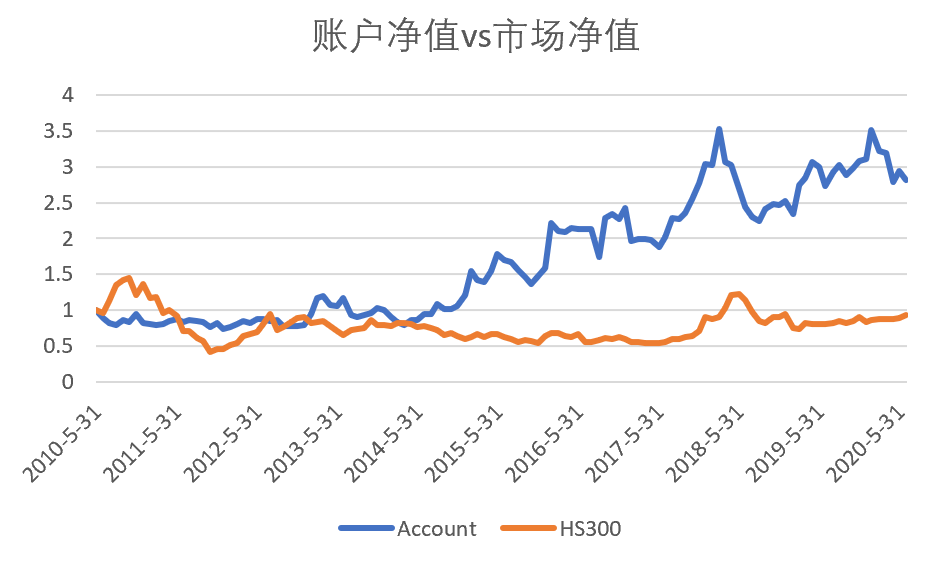
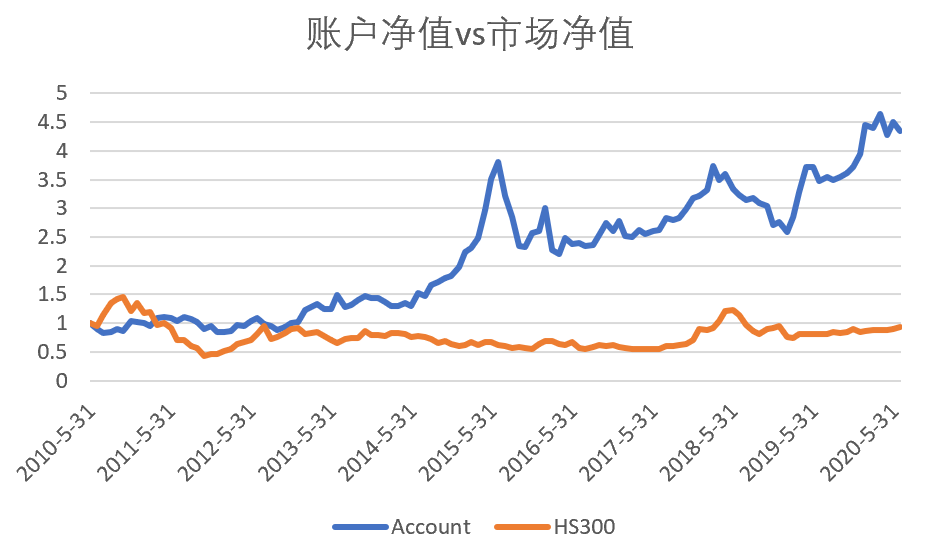
Updated README.md

diff --git a/README.md b/README.md
@@ -1,3 +1,118 @@
-# 基于RMW盈利因子的市场中性策略（逸昕）
-本项目采用基于RMW盈利因子的单因子A股选股策略，使用沪深300股指期货对股票仓位的市场风险进行β对冲，组合为单因子市场中性策略。在参数回归上，项目原采用基于TensorFlow的机器学习方法，通过反馈神经网络完成因子β与投资组合β的拟合，由于回测阶段运算量巨大、耗时较长，改采用简单OLS方法进行回归，但仍保留原机器学习方法接口。
-![账户净值](/Pic/NetValuePerformance.png)
+# 基于RMW盈利因子的市场中性策略
+####作者：逸昕
+本项目采用基于RMW盈利因子的单因子A股选股策略，使用沪深300股指期货对股票仓位的市场风险进行β对冲，每月再平衡，组合为单因子市场中性策略。
+在参数回归上，项目原采用基于TensorFlow的机器学习方法，通过反馈神经网络完成因子β与投资组合β的拟合，由于回测阶段运算量巨大、耗时较长，改采用简单OLS方法进行回归，但仍保留原机器学习方法接口。
+##回测概况
+    策略名称：基于RMW盈利因子的市场中性策略
+    开始日期：2010年4月30日
+    结束日期：2020年6月30日
+    回测周期：122个月
+    频率限制：最小持仓周期为365个自然日
+    股票池：沪深300成分股(2005年1月至2020年6月始终为成分股的120只个股)
+    股指期货：IF（每月再平衡）
+    最大持仓：10
+    初始资本：1000万
+    持有期收益：335.28%
+    年化收益：33.25%
+    夏普比率：0.67
+    最大回撤：0.82
+![账户净值](./Pic/NetValuePerformance.png)  
+注1：由于本人没有万德账号，无法获取沪深300成分股动态数据，在数据选取方面，本项目使用2020年6月30日沪深300成分股作为标的，剔除其中在2005年1月时
+未被纳入成分股的个股，剩余股票池共有120只股票。  
+注2：沪深300股指期货可追溯历史数据始于2010年4月，故策略回测起始期同为2010年4月。
+##因子构建
+本人借鉴Fama French五因子模型的思想，构筑了RMW盈利因子。令2007年4月30日至2020年6月30日间始终为沪深300成分股的个股作为股票池标的，共120只。
+获取股票池标的所对应的每股价格、市值、ROE的月度数据，其中对ROE（季度）数据采取线性插值的方法进行缺失值填充。  
+在每一时间截面上，将120只股票依照起ROE大小，由小到大进行排序，选取排名前1/3的40只股票作为Weak组，排名后1/3的股票作为Robust组，
+对每组股票当月收益进行市值加权求平均处理作为组内收益期望值，RMW因子即为Robust组期望收益与Weak组期望收益之差。  
+##选股策略
+在每一时间截面t上，获取标的池中个股历史三年的收益率数据与同期RMW因子数据，将每只个股的三年月度收益率与同期RMW因子数据组合构成(36, 2)矩阵，共120个，
+对每只个股进行形为 R ~ β · RMW 的回归分析，得到每只个股在RMW上的暴露值β。项目最初使用TensorFlow搭建反馈神经网络进行参数训练，采取梯度下降、学习率衰减算法，
+引入EMA影子变量提高模型泛化性，考虑到需要训练神经网络共有120 * 122 = 14640个，即使每张网络训练次数使用empirical analysis得出的最小较优次数80，
+仍需训练逾越117万轮，在不进行项目优化的的前提下时间成本较高，故弃用机器学习算法而选用传统OLS方法进行参数拟合，同时保留机器学习算法接口供测试优化之用。  
+在截面t上，已求得每只个股RMW因子暴露值β，根据 α = Rt - β · RMW 计算个股α，并对截面t上全部个股α进行排序，假设最大持仓个股数为n，
+选取α前n小且α < 0的的个股作为截面t上选出的个股。投资时，将全部资金中用于股票投资的部分分成n份，均匀投资于每只所选股票。
+##对冲策略
+本策略使用β对冲作为对冲策略，在每个月度交易日上，若在持股票全部无法交易，我们对期货持仓进行调整。首先获取股票持仓组合中每只个股历史3年的月度收益率，
+对组合中个股的每个时间截面上的月度收益依照时间t的仓位进行持仓市值加权求平均处理，得到组合历史收益矩阵Rp，形为（36，1）。
+获取t时刻沪深300指数3年内的月度收益率矩阵Ri，形为（36，1），根据 Rp ~ β · Ri 计算在持股票投资组合的市场风险暴露β，考虑到期货交易存在杠杆L，
+我们算得用于做空沪深300股指期货的资金比例为 β· L / (β · L + 1)，根据该比例调整仓位。  
+在每个存在可交易在持股票的交易日，首先根据等市值对冲法计算初始股票资金比例，为 1 / (L + 1)，通过“选股策略”中的方法进行选股，
+对在持、无法交易但在选股名单中的股票不做增减仓处理。完成股票投资后，根据上一段提到的比例计算方法求得应做空股指期货的资金比例并计算对应资金规模，
+与进行股票投资后账户剩余现金做比较，取较小值进行期货做空。
+##程序设计
+项目运行环境如下:
+
+    系统环境：Windows 10
+    Python版本：3.5.6
+    IDE：PyCharm 2020.2
+    TensorFlow版本：1.10.0
+
+项目结构上，我们应用了面向对象编程思维，建立了Stock和Future两个类分别进行股票和期货的仓位管理，同时建立Account类管理投资账户。
+此外，项目有Factor和Strategy两个接口，分别负责存放计算因子值的方法，与存放选股策略、对冲策略、参数回归等的方法。    
+###Stock类
+Stock类方面，每个Stock对象有购买日期、购买价格、当前日期、当前价格、持有手数、能否平仓共六个实例域，同时有四个实例方法，
+分别为更新账户信息（当前日期，当前每股价格，能否平仓）、平仓（将个股持仓总市值转入账户余额）、获取股票名称、获取个股持仓市值：  
+```
+class Stock:  
+    def __init__(...):
+    self.purchase_date = ...
+    self.purchase_price = ...
+    self.current_date = ...
+    self.current_price = ...
+    self.lot = ...
+    self.can_sell = ...
+     
+    def update_stock_info(...)
+    
+    def close_stock_position(...)
+
+    def get_name(...)
+
+    def get_stock_value(...)
+```
+###Future类
+Future类方面，每个Future对象有购买价格、持有手数、当前价格三个实例域，同时与Stock类相似，有两个实例方法，
+分别负责更新期货信息（更新当前价格）和平仓。
+```
+class Future:
+    def __init__(...):
+        self.purchase_price = ...
+        self.lot = ...
+        self.current_price = ...
+    
+    def update_future_info(...)
+
+    def close_future_position(...)
+```
+###Factor接口
+Factor接口负责存放因子计算方法，在该项目中仅存放了RMW因子的计算方法。
+```
+def RMW(...): ...
+```
+###Strategy接口
+Strategy接口存放机器学习所需的超参数，注意若改用机器学习方法进行参数拟合，务必将处理器个数 CPU_NUMBER 参数根据运行环境进行调整，
+否则可能对计算机硬件造成伤害。此外，Strategy接口共有9个方法，可分为收益计算、选股策略、对冲策略、参数回归四大类：
+```
+# Hyper-Parameter Settings
+STEP = 100
+...
+
+def get_return_data(...): # 将价格序列转为收益率序列
+
+def get_rmw_factor_list(...) # 获取RMW因子时间序列
+
+def get_selected_stock(...) # 依照上述选股方法进行选股并获取所选股票列表
+
+def __get_alpha(...) # 私有方法，获取特定时间截面的全市场alpha值
+
+def __get_beta_ols(...) # 私有方法，通过OLS算法计算因子暴露
+
+def __get_beta_machine_learning(...) # 私有方法，构建前馈神经网络Graph，通过机器学习算法计算因子暴露
+
+def __backward(...) # 私有方法，__get_beta_machine_learning()的helper function，构建反馈神经网络结构并进行模型训练，返回因子暴露
+
+def get_stock_weight(...) # 获取根据等市值对冲方法计算的股票投资比例
+
+def get_future_weight(...) # 获取根据beta对冲方法计算的期货做空比例
+```
